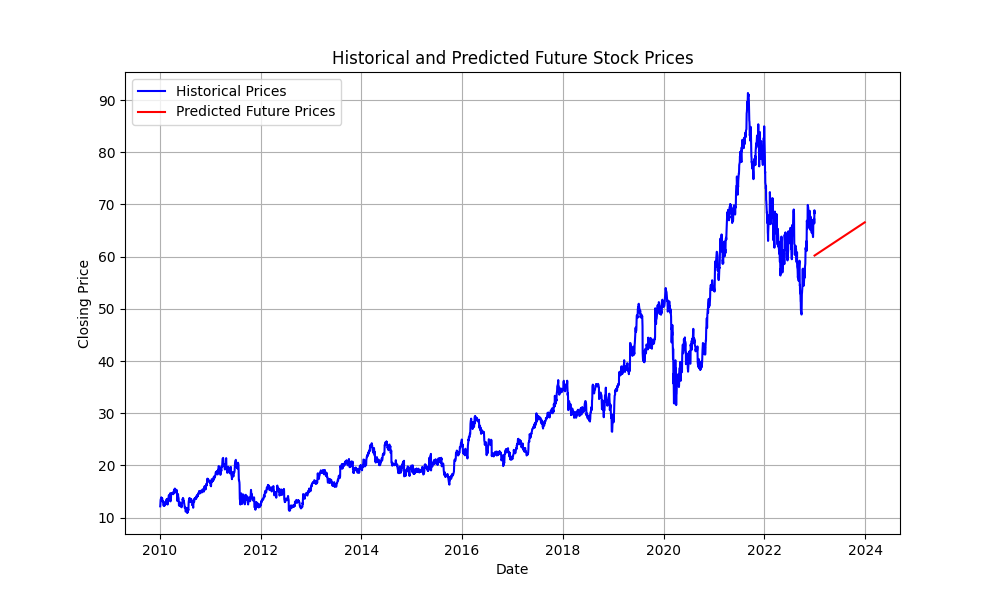
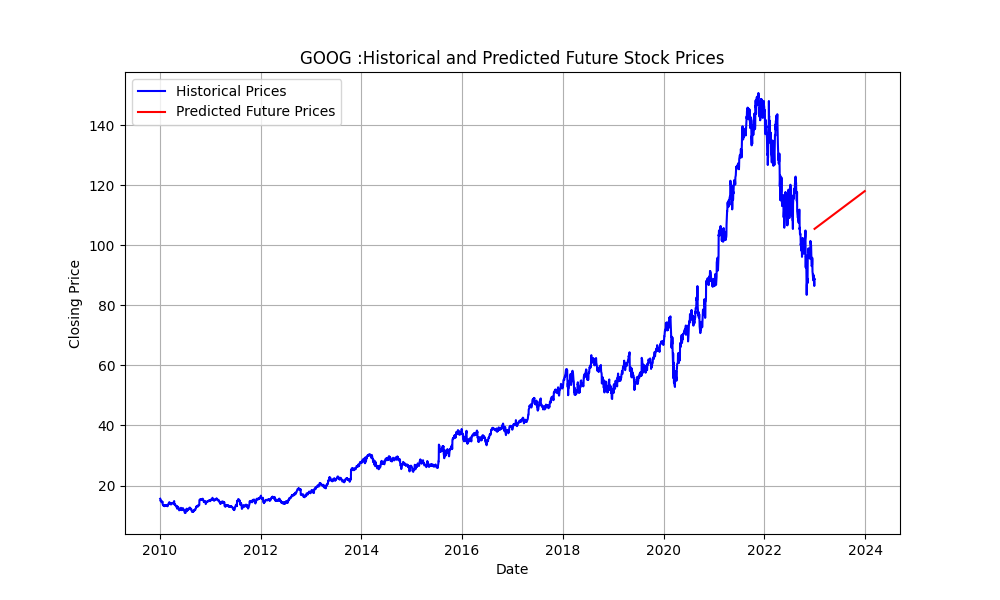
added accuracy metric to model.py

diff --git a/StockPredictor-project/templates/index.html b/StockPredictor-project/templates/index.html
@@ -14,7 +14,7 @@
         <button type="submit">Predict Stock Price</button>
       </form>
       <p>{{ prediction_text }}</p>
-      
+      <p>{{ accuracy }}</p>
     </div>
   </body>
 </html>

diff --git a/StockPredictor-project/model.py b/StockPredictor-project/model.py
@@ -1,86 +1,3 @@
-# import pandas as pd
-# import numpy as np
-# import matplotlib.pyplot as plt
-# from sklearn.linear_model import LinearRegression
-# import yfinance as yf
-
-# # Fetch more historical data
-# ticker = "AAPL"  # Example: Apple stock
-# data = yf.download(ticker, start="2010-01-01", end="2023-01-01")
-# def fetch_historical_data(ticker):
-#     # Fetch historical data for the specified ticker
-#     stock_data = yf.download(ticker, start="2020-01-01", end="2022-01-01")
-#     return stock_data
-
-# # Reset index to get 'Date' as a column
-# data.reset_index(inplace=True)
-
-# # Selecting the relevant columns (for example, we'll use the 'Close' price)
-# data = data[['Date', 'Close']]
-
-# # Convert 'Date' column to datetime
-# data['Date'] = pd.to_datetime(data['Date'])
-
-# # Sorting the data by date
-# data = data.sort_values(by='Date')
-
-# # Prepare the data
-# X = np.array(data.index).reshape(-1, 1)  # Using index as feature
-# y = np.array(data['Close'])
-
-# # Build the linear regression model
-# model = LinearRegression()
-# model.fit(X, y)
-
-# # Predict future stock prices 
-# future_index = np.arange(len(X), len(X) + 365).reshape(-1, 1)
-# future_prices = model.predict(future_index)
-
-# # Storing variables for comparing current and future prices (future = after 365 days)
-# current_prices = data['Close'].iloc[-1]
-# current_price = str(round(current_prices , 2))
-# # future_price = future_prices[364]  
-# future_price = str(round(future_prices[364] , 2))
-
-# if future_price > current_price:
-#     print("future price is greater")
-# else:
-#     print("current price is greater")
-
-# # Visualize historical and predicted future prices
-# plt.figure(figsize=(10, 6))
-# plt.plot(data['Date'], data['Close'], label='Historical Prices', color='blue')
-# plt.plot(pd.date_range(start=data['Date'].iloc[-1], periods=365, freq='D'), future_prices, label='Predicted Future Prices', color='red')
-# plt.title('Historical and Predicted Future Stock Prices')
-# plt.xlabel('Date')
-# plt.ylabel('Closing Price')
-# plt.legend()
-# plt.grid(True)
-# plt.show()
-
-# # Scatter plot to visualize relationship between index and closing prices
-# plt.figure(figsize=(10, 6))
-# plt.scatter(X, y, color='blue', label='Actual Data')
-# plt.plot(X, model.predict(X), color='red', label='Linear Regression')
-# plt.title('Scatter Plot of Index vs Closing Price')
-# plt.xlabel('Index')
-# plt.ylabel('Closing Price')
-# plt.legend()
-# plt.grid(True)
-# plt.show()
-
-# # Residual plot to check the distribution of residuals
-# residuals = y - model.predict(X)
-# plt.figure(figsize=(10, 6))
-# plt.scatter(X, residuals, color='green')
-# plt.axhline(y=0, color='red', linestyle='--')
-# plt.title('Residual Plot')
-# plt.xlabel('Index')
-# plt.ylabel('Residuals')
-# plt.grid(True)
-# plt.show()
-
-
 import pandas as pd
 import numpy as np
 import matplotlib.pyplot as plt
@@ -90,14 +7,8 @@ import yfinance as yf
 def predict_stock_price(ticker):
     # Fetch historical data for the specified ticker
     data = yf.download(ticker, start="2010-01-01", end="2023-01-01")
-
-    # Reset index to get 'Date' as a column
     data.reset_index(inplace=True)
-
-    # Selecting the relevant columns (for example, we'll use the 'Close' price)
     data = data[['Date', 'Close']]
-
-    # Convert 'Date' column to datetime
     data['Date'] = pd.to_datetime(data['Date'])
 
     # Sorting the data by date
@@ -119,11 +30,15 @@ def predict_stock_price(ticker):
     current_price = data['Close'].iloc[-1]
     future_price = future_prices[364]
     
-        # Visualize historical and predicted future prices
+    # determine accuracy- Calc. R^2 score and convert it to a percentage
+    r2_score = model.score(X, y)
+    accuracy_percentage = r2_score * 100
+    
+    # Visualize historical and predicted future prices
     plt.figure(figsize=(10, 6))
     plt.plot(data['Date'], data['Close'], label='Historical Prices', color='blue')
     plt.plot(pd.date_range(start=data['Date'].iloc[-1], periods=365, freq='D'), future_prices, label='Predicted Future Prices', color='red')
-    plt.title('Historical and Predicted Future Stock Prices')
+    plt.title(ticker  + ' :Historical and Predicted Future Stock Prices')
     plt.xlabel('Date')
     plt.ylabel('Closing Price')
     plt.legend()
@@ -135,7 +50,7 @@ def predict_stock_price(ticker):
     plt.figure(figsize=(10, 6))
     plt.scatter(X, y, color='blue', label='Actual Data')
     plt.plot(X, model.predict(X), color='red', label='Linear Regression')
-    plt.title('Scatter Plot of Index vs Closing Price')
+    plt.title(ticker + ' :Scatter Plot of Index vs Closing Price')
     plt.xlabel('Index')
     plt.ylabel('Closing Price')
     plt.legend()
@@ -148,14 +63,14 @@ def predict_stock_price(ticker):
     plt.figure(figsize=(10, 6))
     plt.scatter(X, residuals, color='green')
     plt.axhline(y=0, color='red', linestyle='--')
-    plt.title('Residual Plot')
+    plt.title(ticker + ' :Residual Plot')
     plt.xlabel('Index')
     plt.ylabel('Residuals')
     plt.grid(True)
     plt.savefig('static/plot3.png')
     plt.close()
 
-    return round(current_price, 2), round(future_price, 2)
+    return round(current_price, 2), round(future_price, 2), round(accuracy_percentage, 2)
 
 # For example usage
 # current_price, future_price = predict_stock_price("AAPL")

diff --git a/StockPredictor-project/app.py b/StockPredictor-project/app.py
@@ -11,16 +11,17 @@ def main():
 def predict():
     if request.method == 'POST':
         ticker = request.form['Ticker']
-        current_price, future_price = predict_stock_price(ticker)
-        prediction_text = f"The current price of {ticker} is ${current_price} and the predicted price after 365 days is ${future_price}."
-        return render_template('index.html', prediction_text=prediction_text)
+        current_price, future_price, accuracy_percentage = predict_stock_price(ticker)
+        prediction_text = f"The current price of {ticker} is ${current_price} and the predicted price after 1 year is ${future_price}."
+        accuracy = f"Accuracy : {accuracy_percentage}%"
+        return render_template('index.html', prediction_text=prediction_text, accuracy = accuracy)
     elif request.method == 'GET':
         image_urls = {
             'image1': url_for('static', filename='plot1.png'),
             'image2': url_for('static', filename='plot2.png'),
             'image3': url_for('static', filename='plot3.png')
         }
-        return render_template('index.html', mage_urls = image_urls)
+        return render_template('index.html', image_urls = image_urls)
     return render_template('index.html')
 
 
